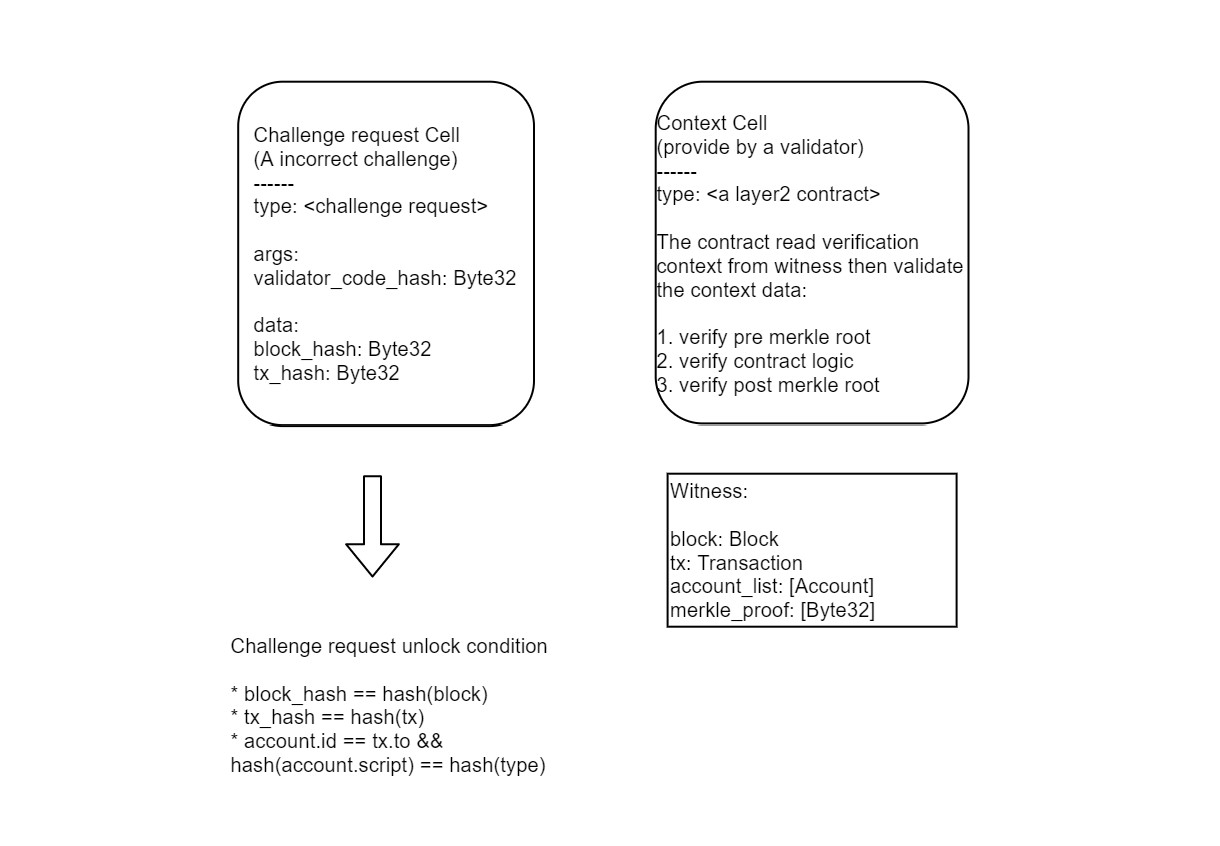
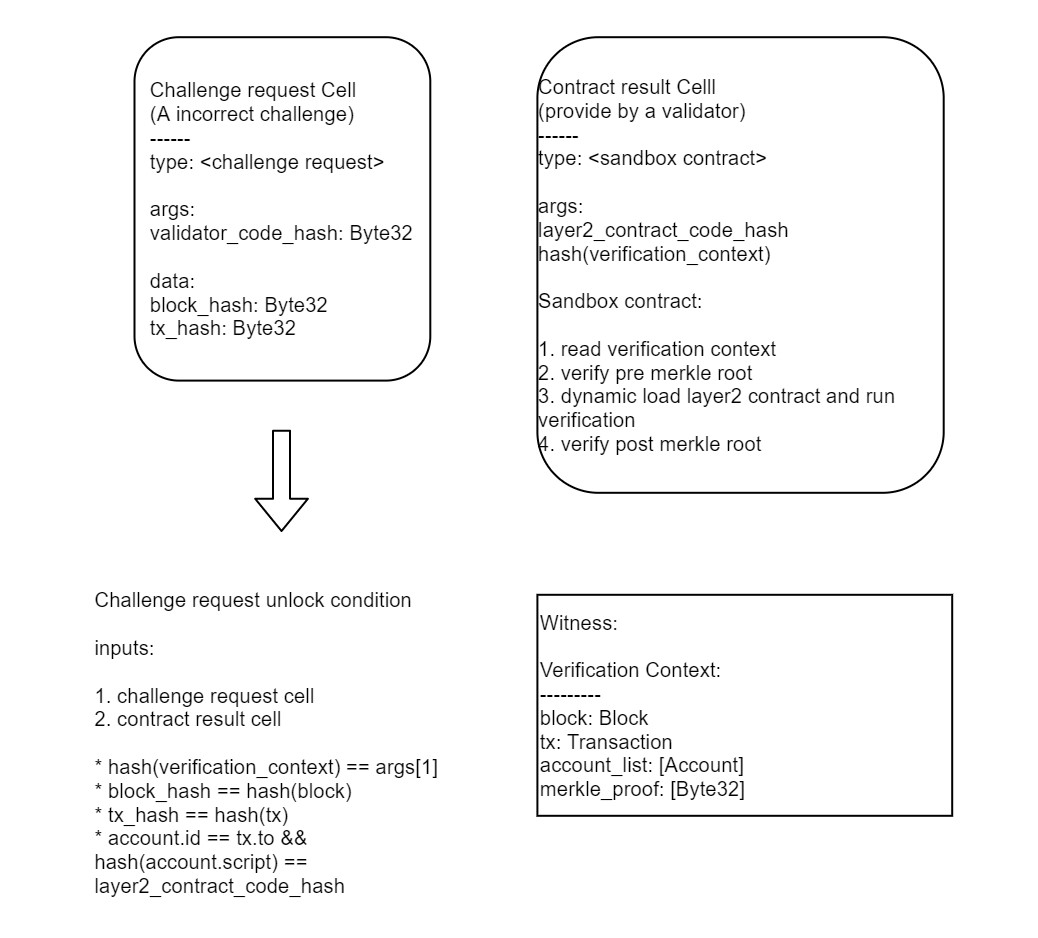
Update optimistic-rollup sandbox

diff --git a/docs/optimistic-rollup.md b/docs/optimistic-rollup.md
@@ -20,9 +20,7 @@ Usually, an aggregator is also a validator.
 
 (TODO)
 
-## Contracts
-
-### State validator
+## State validator
 
 Godwoken contract supports several actions to update the global state:
 
@@ -46,7 +44,7 @@ Godwoken contract supports several actions to update the global state:
 `withdraw`, move assets from withdrawing queue to layer1, a withdrawable assets in the queue must wait for at least `WITHDRAW_WAIT` blockssince enqueued. 
 
 
-### Challenge
+## Challenge
 
 Usually, to prove a state is invalid, the challenger needs to collect enough information and post this information to the on-chain dispute contract, then the disputed contract executes the layer2 contract in a VM; if the VM exit with exceptions or exit with a different state we know that the original state is invalid.
 
@@ -62,11 +60,38 @@ So here we propose a new challenge mechanism, the challenge process is managed b
 * After time T, if the challenge request still exists, we assume the challenge is correct.
 * A validator or the original challenger can use the challenge request cell as proof to revert a layer2 block.
 
-![Cancel a challenge request](./cancel_a_challenge_request.jpg)
-
 Compare to the 'traditional' challenge process, we require a more strict online time for validators. If a validator takes more than T time offline(or the validator can't cancel an invalid challenge request within T times due to software bug or network issue), he may lose the coins due to a malicious challenge request. Even we allow other validators to cancel a challenge request; it is still a dangerous behavior.
 
 In the case that the validator became malicious, our challenge mechanism requires T time to revert the block, which the traditional challenge can revert the block in almost one block time. If the challenge sends another invalid block after the revert block, we need extra T times to invalid it; this means if the aggregator costs `N * COINS_TO_BE_AGGREGATOR`, we need to wait for `N * T` times to revert the block to a correct state in the worst case.
+
+
+### Sandbox to run layer2 contracts
+
+As we mentioned in the previous section, our layer2 contracts are just layer1 contracts in the special form. A layer2 contract needs to be run in the two environments: the aggregator context and the on-chain context.
+
+This leads to a potential consensus split risk. Since any user can create layer2 contracts, a dishonor user may create a contract that behaves differently in the two contexts, or just takes some random behaviors such as returns failure if the last bit of `tx_hash` if 0, otherwise return success. This kind of contract is dangerous; when the aggregator submits a transaction which invokes the contract, it returns a result, and then when a challenge request is created, the contract returns another result, the aggregator can't cancel the challenge and will lose the money!
+
+To keep the contract behavior consistency, We must restrict the contract to only access the consistent environment (verification context, VM registers, and VM memories); any difference in the environment may lead to different contract behaviors under the two contexts.
+
+To restrict the layer2 contract behavior, we need to create a sandbox for it:
+
+Aggregator:
+
+1. To prevent layer2 contract access inconsistent data in different environments, we must disable the syscall feature. The aggregator must scan the contract binary and reject any layer2 contract, which contains the `ecall` opcode (`ecall` is the only way to invoke syscalls).
+2. After disabling the syscall, the layer2 contract can only access the verification context, which we passed to it, the verification context must be sorted in canonical order. (for example, the accounts list must sort by ID).
+
+On-chain sandbox:
+
+However, we still need to pass the verification context to the layer2 contract. The idea is to use a sandbox contract to setup environment for the layer2 contracts, the sandbox contract must be dedicated designed and must guarantee the verification context, VM registers, and VM memories are identical in the aggregator context and the on-chain context.
+
+1. call `load_witness` syscall, load the verification context into the stack.
+2. Do the pre merkle verification
+3. Load and invoke the layer2 contract.
+4. Do the post merkle verification
+
+Using the static check to disable the syscalls, and the sandbox contract to keep a canonical environment, we can ensure the layer2 contract behavior is consistent in the aggregator context and the on-chain context.
+
+![Cancel a challenge request](./cancel_a_challenge_request.jpg)
 
 [sparse merkle tree]: https://github.com/jjyr/sparse-merkle-tree "sparse merkle tree"
 
